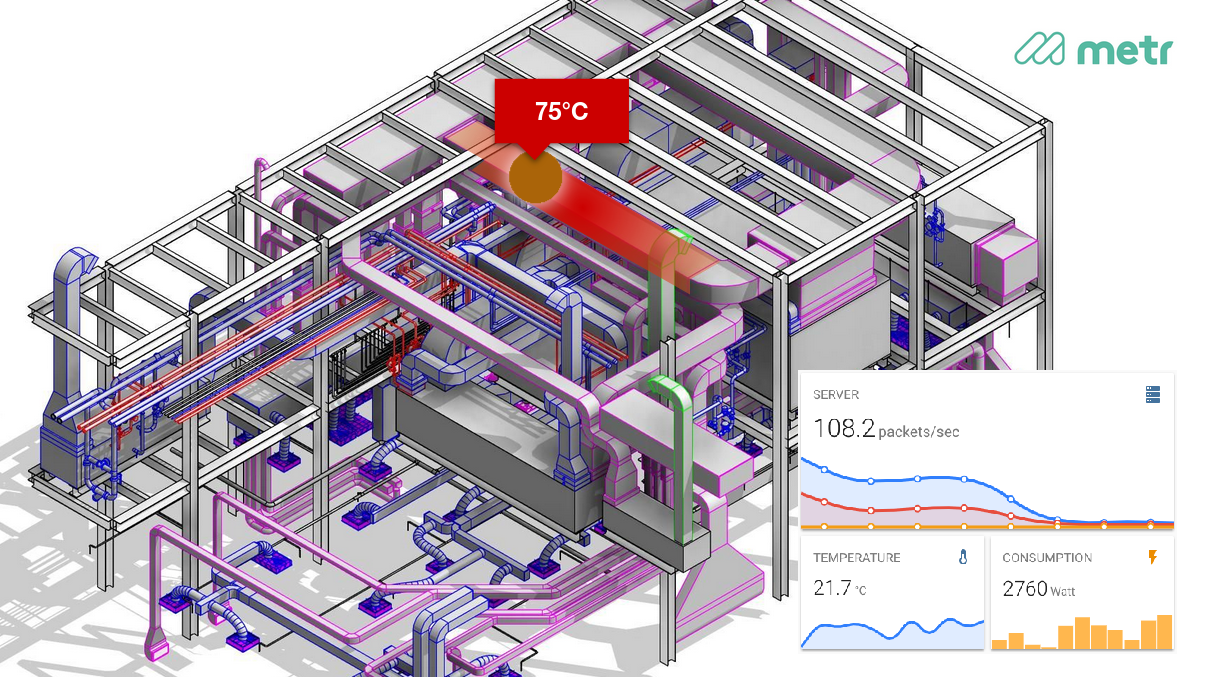
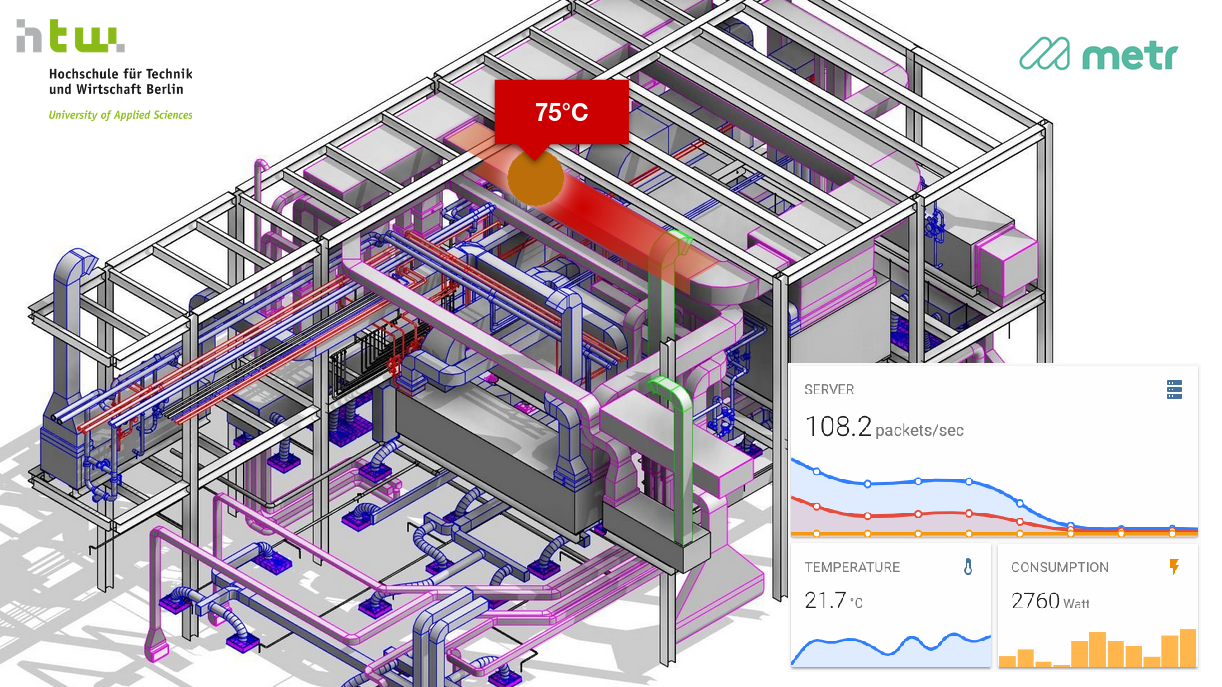
updated readme

diff --git a/README.md b/README.md
@@ -1,6 +1,6 @@
 # visense
 
-3D visualization for IoT data for metr.systems
+visense is a project of the University of Applied Sciences (HTW) Berlin and metr.systems to visualize IoT data in BIM Models.
 
 this repo contains sample data for the visense project, consisting of 3D gltf models and sensor data.
 
